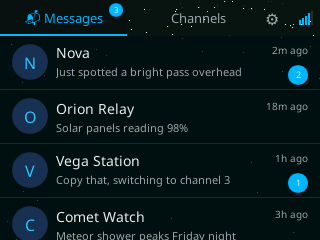
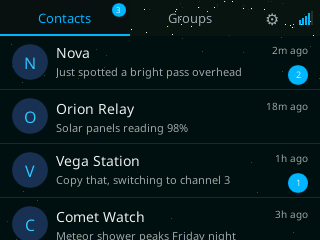
docs(site): document the renamed Contacts/Groups UI and the room-server client flow
Regenerates all landing-page promo screenshots from the renamed UI (adds a
Groups-tab shot with a mixed channel + room-server list, visually
distinguished), and brings README.md, site/README.md, and site/index.html
into line with what the campaign shipped: Contacts/Groups vocabulary
end to end, and the room-server flow (out-of-band acquisition only, guest-
password login, backlog sync, then live read/post) with its explicit
non-goals (no remote admin, no ACL management, never itself a room server).

Changed region(s): [[0.0625, 0.0, 0.4062, 0.1167], [0.5312, 0.0583, 0.7188, 0.1167]]

diff --git a/site/index.html b/site/index.html
@@ -4,7 +4,7 @@
   <meta charset="UTF-8" />
   <meta name="viewport" content="width=device-width, initial-scale=1.0" />
   <title>MeshCadet — mesh-radio messaging firmware for the LilyGo T-Deck Plus</title>
-  <meta name="description" content="MeshCadet is a polished, deliberately-limited MeshCore-interop firmware for the LilyGo T-Deck Plus: allowlist-only contacts, no advertising, pull-only telemetry, on a byte-exact MeshCore protocol port." />
+  <meta name="description" content="MeshCadet is a polished, deliberately-limited MeshCore-interop firmware for the LilyGo T-Deck Plus: allowlist-only contacts and channels, guest-only MeshCore Room Server support, no advertising, pull-only telemetry, on a byte-exact MeshCore protocol port." />
 
   <!-- All paths below are relative (no leading "/") — this is a GitHub Pages
        PROJECT site served under /meshcadet/, not a root site. A root-rooted
@@ -78,16 +78,26 @@
           </div>
           <div class="card">
             <img src="assets/planet-corner.png" alt="" aria-hidden="true" />
-            <h3>Touch UI for contacts &amp; messages</h3>
-            <p>A Slint touch-screen interface for contacts, conversations, and
-              composing messages with a curated <code>:shortcode:</code>
-              emoji set.</p>
+            <h3>Contacts &amp; Groups touch UI</h3>
+            <p>A Slint touch-screen interface with two tabs: <strong>Contacts</strong>
+              (direct-message peers) and <strong>Groups</strong> — provisioned
+              channels and room-server connections in one unified, visually
+              distinguished list — plus a conversation view and a composer
+              with a curated <code>:shortcode:</code> emoji set.</p>
           </div>
           <div class="card">
             <img src="assets/comet.png" alt="" aria-hidden="true" />
             <h3>PIN-gated admin menu</h3>
             <p>Lightweight on-device runtime toggles behind a PIN, plus a USB
               host CLI for provisioning, PIN reset, and history export.</p>
+          </div>
+          <div class="card">
+            <img src="assets/crescent-moon.png" alt="" aria-hidden="true" />
+            <h3>Room Server guest client</h3>
+            <p>Join a MeshCore Room Server as a guest: provisioned
+              out-of-band like any other contact, never advertised or
+              discovered. MeshCadet reads and posts as a guest — it never
+              administers a room and is never itself a room server.</p>
           </div>
         </div>
       </div>
@@ -103,8 +113,12 @@
             <figcaption>Boot splash</figcaption>
           </figure>
           <figure class="screenshot-card">
-            <img src="assets/screenshot-contacts.png" alt="MeshCadet contact list screen, showing several allowlisted contacts with unread badges and last-message previews." width="320" height="240" loading="lazy" />
+            <img src="assets/screenshot-contacts.png" alt="MeshCadet Contacts tab, showing several allowlisted direct-message peers with unread badges and last-message previews." width="320" height="240" loading="lazy" />
             <figcaption>Contacts</figcaption>
+          </figure>
+          <figure class="screenshot-card">
+            <img src="assets/screenshot-groups.png" alt="MeshCadet Groups tab, showing a unified list of a provisioned channel and a room-server connection, visually distinguished by avatar color." width="320" height="240" loading="lazy" />
+            <figcaption>Groups</figcaption>
           </figure>
           <figure class="screenshot-card">
             <img src="assets/screenshot-messages.png" alt="MeshCadet message thread screen, showing a sent and received conversation with delivery acknowledgement checkmarks." width="320" height="240" loading="lazy" />
@@ -140,8 +154,9 @@
             <span class="step-number">2</span>
             <div class="step-body">
               <h3>Provision your device</h3>
-              <p>Register contacts and channels over USB. The device stays
-                allowlist-only and off the mesh until you say so.</p>
+              <p>Register contacts, channels, and room servers over USB. The
+                device stays allowlist-only and off the mesh until you say
+                so.</p>
               <a class="btn btn-primary" href="provisioner.html">Provision device</a>
             </div>
           </li>
@@ -179,6 +194,19 @@
           underlying protocol to apply those limits. These are deliberate
           design choices for a controlled, minimal comms device, not anything
           the underlying protocol requires.
+        </p>
+        <p>
+          <strong>Room servers work the same way.</strong> A MeshCore Room
+          Server is acquired <strong>out-of-band only</strong> — an admin
+          provisions it as an allowlisted contact (pubkey, name, and guest
+          password) over USB, via the host CLI or the browser provisioner, or
+          by scanning a room QR/link. There is no advert and no discovery.
+          Once provisioned, the device logs in with the guest password,
+          drains the server's stored backlog into history, and from then on
+          reads and posts to the room live, right alongside true channels in
+          the Groups tab. MeshCadet is a room <strong>client</strong> only:
+          no remote administration of a room server, no ACL management, and
+          MeshCadet is never itself a room server.
         </p>
         <p class="muted">
           MeshCadet is provided as-is, with no warranty and no guarantee of

diff --git a/ui_sim/src/bin/groups_promo_render.rs b/ui_sim/src/bin/groups_promo_render.rs
@@ -1,0 +1,79 @@
+// SPDX-License-Identifier: GPL-3.0-only
+//! `cargo run -p ui_sim --bin groups_promo_render` — regenerates the
+//! contact-list screen's **Groups tab** promotional landing-page screenshot.
+//!
+//! Writes `site/assets/screenshot-groups.png`: the same real contact-list
+//! markup `contact_list_promo_render.rs` captures (see
+//! `ui_sim::contact_list_promo`'s module doc), but switched to the Groups
+//! tab and seeded with a MIXED list — a true channel and a room-server
+//! contact unioned together, `is_room`-tinted per `ui_sim/tests/
+//! room_list_entry.rs`'s acceptance proof — so the campaign's headline UI
+//! change (rooms appearing read-only in an existing, unified Groups list,
+//! visually distinct from a true channel) is documented on the landing page,
+//! not just proven by test. Regenerate after any change to
+//! `firmware/src/ui/screens/contact_list.rs`'s markup, `Theme.select`/
+//! `Theme.nebula-violet`, or this seed data by re-copying the updated markup
+//! into `ui_sim::contact_list_promo` and re-running this binary.
+
+use std::path::PathBuf;
+use std::time::Duration;
+
+use ui_sim::contact_list_promo::{ContactListPromoFrame, PromoChannel};
+
+fn main() {
+    let frame = ContactListPromoFrame::new();
+    frame.set_channels(&[
+        PromoChannel {
+            name: "Ops Net",
+            initial: "O",
+            preview: "Copy that, switching to channel 3",
+            time_str: "12m ago",
+            unread: 0,
+            is_room: false,
+        },
+        PromoChannel {
+            name: "Basecamp Room",
+            initial: "B",
+            preview: "Backlog synced - 12 new posts",
+            time_str: "4m ago",
+            unread: 3,
+            is_room: true,
+        },
+        PromoChannel {
+            name: "Weather Net",
+            initial: "W",
+            preview: "Clear skies through the weekend",
+            time_str: "40m ago",
+            unread: 0,
+            is_room: false,
+        },
+    ]);
+    // Good repeater signal (ADR-0010) — a compelling, on-brand default for
+    // the promo shot rather than the direct-only ring.
+    frame.set_signal_level(4);
+    // Same wall-clock fade-in note as `contact_list_promo_render.rs` — the
+    // screen's one-shot `content_opacity` fade animates over 200ms of REAL
+    // WALL-CLOCK TIME from component construction; sleep past it before
+    // capturing.
+    std::thread::sleep(Duration::from_millis(250));
+    let framebuffer = frame.render();
+
+    let img = ui_sim::contact_list_promo::framebuffer_to_rgb_image(
+        &framebuffer,
+        ui_sim::contact_list_promo::WIDTH,
+        ui_sim::contact_list_promo::HEIGHT,
+    );
+
+    let out_path: PathBuf = [
+        env!("CARGO_MANIFEST_DIR"),
+        "..",
+        "site",
+        "assets",
+        "screenshot-groups.png",
+    ]
+    .iter()
+    .collect();
+    std::fs::create_dir_all(out_path.parent().unwrap()).expect("create site/assets");
+    img.save(&out_path).expect("write promo screenshot PNG");
+    println!("wrote promo screenshot: {}", out_path.display());
+}

diff --git a/site/README.md b/site/README.md
@@ -7,6 +7,24 @@ this directory. `.github/workflows/pages-check.yml` runs the relative-path
 regression guard (below) on every PR that touches this directory, without
 building or publishing anything.
 
+**Vocabulary the page must stay consistent with.** The on-device UI has two
+tabs: **Contacts** (direct-message peers) and **Groups** (a unified list of
+provisioned channels and room-server connections, visually distinguished).
+Any prose or screenshot referencing "Messages"/"Channels" as tab names is
+stale — see `#screenshots` and `#about` below. Room servers are a **guest
+read/post client only**, acquired the same out-of-band-only way as every
+other contact: an admin provisions the pubkey + name + guest password over
+USB (CLI `add-room` or this site's `provisioner.html` **Room servers**
+panel), or the device scans a room QR/link. There is no advert, no
+discovery. Once provisioned, the device logs in with the guest password,
+drains the server's stored backlog (up to 32 posts) into history, then reads
+and posts live — the same as any other Groups-tab entry. MeshCadet is never
+itself a room server: no remote admin, no ACL management, guest-level
+read/post only. `index.html`'s `#about` and `#getting-started` sections and
+the root [`README.md`](../README.md#room-servers-readpost-client-only) are
+the two other places this same flow and its non-goals are documented — keep
+all three in sync.
+
 ## Structure
 
 - `index.html` — the landing page. Sections are self-contained
@@ -16,7 +34,7 @@ building or publishing anything.
   note — and linked from the top nav in the same order; add a new one the
   same way and it shows up in nav + on the page without touching anything
   else. `#about` ("What it does") is a `.card-grid` of the core feature/policy
-  points. `#screenshots` is a responsive `.screenshot-grid` of four
+  points. `#screenshots` is a responsive `.screenshot-grid` of five
   device-resolution (320x240) PNGs, each in a subtle rounded-corner +
   drop-shadow `.screenshot-card` frame (`styles.css`) — see the `assets/`
   bullet below for their provenance. `#getting-started` is the flash →
@@ -202,8 +220,8 @@ building or publishing anything.
   triple-gated **clear-history** (reveal → acknowledgement checkbox → native
   `confirm()` dialog) that surfaces the CLI's reboot-to-refresh note.
   `meshcadet-room-web-provisioner` mirrors the room-server provisioning path
-  (already proven end-to-end through the host CLI) into a **Rooms** section:
-  list/add/remove a room-server contact (`session.js`'s `listRooms`/
+  (already proven end-to-end through the host CLI) into a **Room servers**
+  section: list/add/remove a room-server contact (`session.js`'s `listRooms`/
   `addRoom`/`delRoom`, against the room frames `codec.js` already carries)
   and a per-room `meshcore://contact/add?...&type=3` QR/URI
   (`contact-uri.js`'s `buildRoomUri`) — byte-identical in shape to the
@@ -222,15 +240,21 @@ building or publishing anything.
   (project-owned, GPLv3, reproducibly generated by
   `firmware/generate_assets.py`). Reuse assets from there rather than adding
   new art when possible, to keep the visual identity consistent.
-  `assets/screenshot-{splash,contacts,messages,compose}.png` are a different
-  kind of generated asset: 320x240 host-sim renders of the REAL production
-  screens (`firmware/src/ui/screens/{splash,contact_list,message_view,
-  compose}.rs`'s markup, mounted verbatim), seeded with tasteful sample data,
-  produced by `ui_sim`'s `{contact_list,message_view,compose,splash}_promo`
-  render rigs — same "checked-in, build-reproducible" convention as
-  `docs/renders/` (see `ui_sim/README.md`). Regenerate any one with
-  `cargo run -p ui_sim --bin <name>_promo_render` after a markup or seed-data
-  change.
+  `assets/screenshot-{splash,contacts,groups,messages,compose}.png` are a
+  different kind of generated asset: 320x240 host-sim renders of the REAL
+  production screens (`firmware/src/ui/screens/{splash,contact_list,
+  message_view,compose}.rs`'s markup, mounted verbatim), seeded with
+  tasteful sample data, produced by `ui_sim`'s render rigs — `splash_promo`,
+  `contact_list_promo` (rendered twice, via `contact_list_promo_render` for
+  the Contacts tab and `groups_promo_render` for the Groups tab — the latter
+  seeded with a mixed channel + room-server list so the read-only room entry
+  and its `is_room` avatar-color distinction show up on the landing page,
+  not just in tests), `message_view_promo`, and `compose_promo` — same
+  "checked-in, build-reproducible" convention as `docs/renders/` (see
+  `ui_sim/README.md`). Regenerate any one with `cargo run -p ui_sim --bin
+  <name>_promo_render` (`contact_list_promo_render`, `groups_promo_render`,
+  `message_view_promo_render`, `compose_promo_render`, or
+  `splash_promo_render`) after a markup, theme, or seed-data change.
 - `firmware/` — **not checked in.** Populated at deploy time by
   `.github/workflows/pages-deploy.yml`, which mirrors each recent GitHub
   Release's `manifest.json` + merged firmware image into

diff --git a/README.md b/README.md
@@ -83,16 +83,50 @@ posture is detailed in [`SECURITY.md`](SECURITY.md).
 - Talks real MeshCore over LoRa (SX1262): DMs, channel messages, ACKs, and
   pull-only location telemetry. Byte-exact against v1.15.0, targeting v1.16
   with v1.15 back-compat (see [ADR-0001 §1](docs/adr/0001-charter.md)).
-- Touch-screen UI (Slint) for contacts, conversations, and composing messages
-  with a curated `:shortcode:` emoji set.
-- Allowlist-only: an admin provisions every contact and channel over USB; the
-  device never auto-discovers or auto-adds anyone, and never advertises itself
-  on the mesh.
+- Touch-screen UI (Slint) with two tabs: **Contacts** (direct-message peers)
+  and **Groups** — a unified list of provisioned channels and room-server
+  connections, visually distinguished — plus a conversation view and a
+  composer with a curated `:shortcode:` emoji set.
+- Allowlist-only: an admin provisions every contact, channel, and room server
+  over USB; the device never auto-discovers or auto-adds anyone, and never
+  advertises itself on the mesh.
 - On-device PIN-gated admin menu for lightweight runtime toggles, plus a USB
   host CLI for provisioning, PIN reset, and history export.
 
 See [`docs/adr/0001-charter.md`](docs/adr/0001-charter.md) for the complete
 behavioral contract.
+
+## Room servers (read/post client only)
+
+MeshCadet can join a [MeshCore Room Server](https://github.com/meshcore-dev/MeshCore)
+as a **guest** — a shared, always-on channel-like space hosted by someone
+else's node — subject to the same allowlist discipline as every other
+contact:
+
+- **Acquisition is out-of-band only.** An admin provisions a room server as
+  an allowlisted contact — pubkey, display name, and guest password — over
+  USB, using the host CLI (`add-room`) or the browser provisioner's **Room
+  servers** panel, or by scanning the room's QR/link from a MeshCore
+  companion app. There is **no advert and no discovery**: MeshCadet never
+  learns about a room server except through one of these explicit,
+  admin-driven paths.
+- **Login, then sync.** The device logs in with the provisioned guest
+  password, drains the server's stored backlog — up to 32 posts — into local
+  history, and from then on reads and posts to the room live, the same as
+  any other Groups-tab entry.
+- **Visually unified, not a new surface.** A room server appears alongside
+  true channels in the existing Groups tab (Contacts stays DM-only), tinted
+  to distinguish it from a true channel at a glance — no new tab, no
+  separate app surface.
+
+**Non-goals.** MeshCadet is a room **client** only:
+
+- No remote administration of a room server — no promoting/demoting guests,
+  no server configuration, nothing beyond guest-level read/post.
+- No ACL management — permissions on a room are whatever the room server
+  itself grants a guest; MeshCadet neither reads nor writes ACL state.
+- MeshCadet is **never itself a room server** — it does not host, relay, or
+  serve a room to anyone else.
 
 ## Status and known limitations
 
@@ -208,17 +242,23 @@ USB" screen and accepts no messages until provisioned (see below).
 ### 3. Provisioning a device (the admin CLI)
 
 The `host` crate provides `meshcadet`, a USB-serial CLI an admin uses to set
-up a device — register contacts and channels, set notification defaults and a
-PIN, and later export history or reset a forgotten PIN. It's part of the
-host-native workspace, so it builds and runs from the repo root:
+up a device — register contacts, channels, and room servers, set notification
+defaults and a PIN, and later export history or reset a forgotten PIN. It's
+part of the host-native workspace, so it builds and runs from the repo root:
 
 ```sh
 cargo run -p host -- --port /dev/ttyACM0 status
 cargo run -p host -- --port /dev/ttyACM0 identity
 cargo run -p host -- --port /dev/ttyACM0 add-contact --pubkey <HEX64> --name "Alice" --telemetry
 cargo run -p host -- --port /dev/ttyACM0 add-channel --secret <HEX64> --name "family" --primary
+cargo run -p host -- --port /dev/ttyACM0 add-room --pubkey <HEX64> --name "Lobby" --password-stdin
 cargo run -p host -- --port /dev/ttyACM0 commit
 ```
+
+Flashing and provisioning can also be done straight from a browser, no
+toolchain install required — see [`site/README.md`](site/README.md) for the
+web flasher and the web provisioner (whose **Room servers** panel mirrors
+the CLI's `add-room`/`list-rooms`/`del-room`).
 
 Run `cargo run -p host -- --help` for the full command list. Physical USB
 possession of the device is the sole authentication factor for provisioning

diff --git a/ui_sim/README.md b/ui_sim/README.md
@@ -110,11 +110,13 @@ as originally verified.
 
 ## Landing-page promo screenshots
 
-Four more render rigs (`contact_list_promo`, `message_view_promo`,
+Four render rigs (`contact_list_promo`, `message_view_promo`,
 `compose_promo`, `splash_promo`) produce the promotional screenshots on
-`site/index.html`'s `#screenshots` gallery. Unlike every rig above — each a
-narrow, single-mechanism proof — these copy their target production
-screen's full `slint::slint!{}` markup (`firmware/src/ui/screens/
+`site/index.html`'s `#screenshots` gallery — one of them (`contact_list_promo`)
+twice over, via two separate binaries, since the same contact-list screen's
+markup renders both the Contacts tab and the Groups tab. Unlike every rig
+above — each a narrow, single-mechanism proof — these copy their target
+production screen's full `slint::slint!{}` markup (`firmware/src/ui/screens/
 {contact_list,message_view,compose,splash}.rs`) VERBATIM, because the
 deliverable is a screenshot of the REAL screen, seeded with tasteful,
 OSS-appropriate sample data (space-mission callsigns, no PII, no internal
@@ -123,16 +125,23 @@ relative-path imports as every rig above.
 
 ```sh
 cargo run -p ui_sim --bin contact_list_promo_render  # site/assets/screenshot-contacts.png
+cargo run -p ui_sim --bin groups_promo_render         # site/assets/screenshot-groups.png
 cargo run -p ui_sim --bin message_view_promo_render  # site/assets/screenshot-messages.png
 cargo run -p ui_sim --bin compose_promo_render       # site/assets/screenshot-compose.png
 cargo run -p ui_sim --bin splash_promo_render         # site/assets/screenshot-splash.png
 ```
 
-Regenerate all four after any change to one of those four screens' markup,
-`theme.slint`, or `motifs.slint` by re-copying the updated markup into the
-corresponding `ui_sim::*_promo` module and re-running its binary — see
-`site/README.md`'s `assets/` bullet for the site-side half of this
-contract.
+`groups_promo_render` seeds a MIXED Groups list (a true channel and a
+room-server entry) and switches the shared UI to that tab, so the room
+entry's `is_room` avatar-color distinction (a channel's `Theme.select` vs. a
+room's `Theme.nebula-violet` — see `ui_sim/tests/room_list_entry.rs`) shows
+up on the landing page, not just in a test assertion.
+
+Regenerate all five after any change to one of the underlying screens'
+markup, `theme.slint`, or `motifs.slint` by re-copying the updated markup
+into the corresponding `ui_sim::*_promo` module and re-running its
+binary(-ies) — see `site/README.md`'s `assets/` bullet for the site-side
+half of this contract.
 
 ## Env requirements
 
